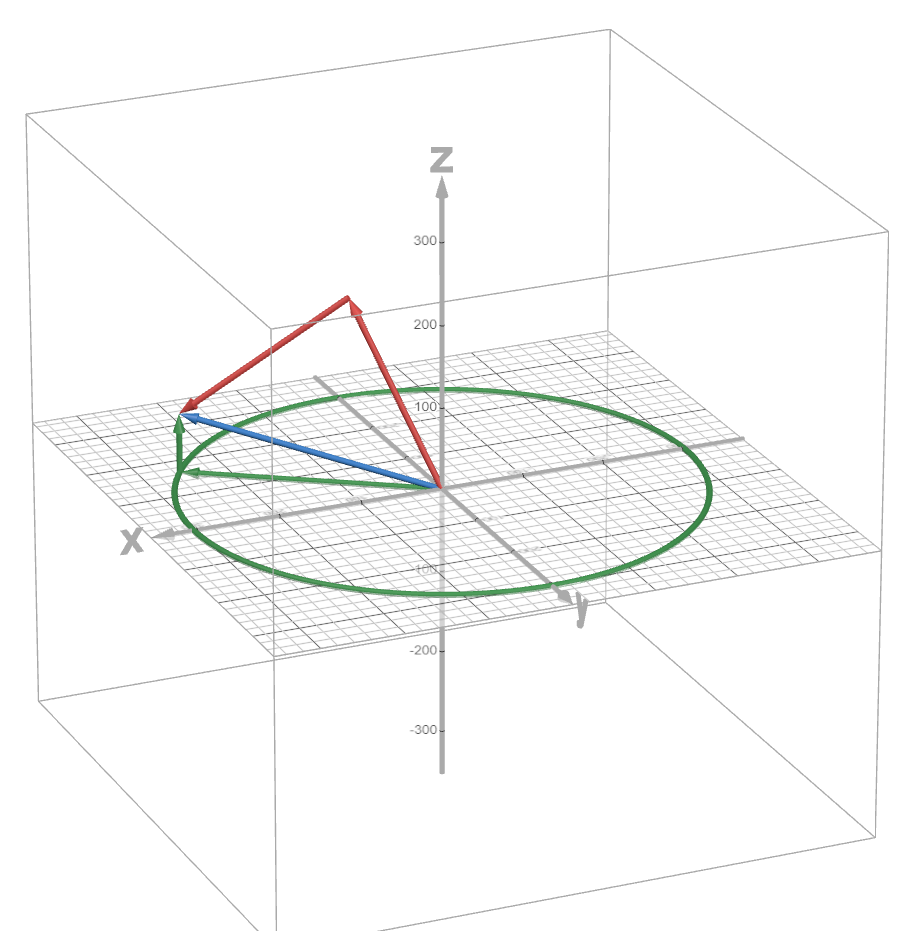
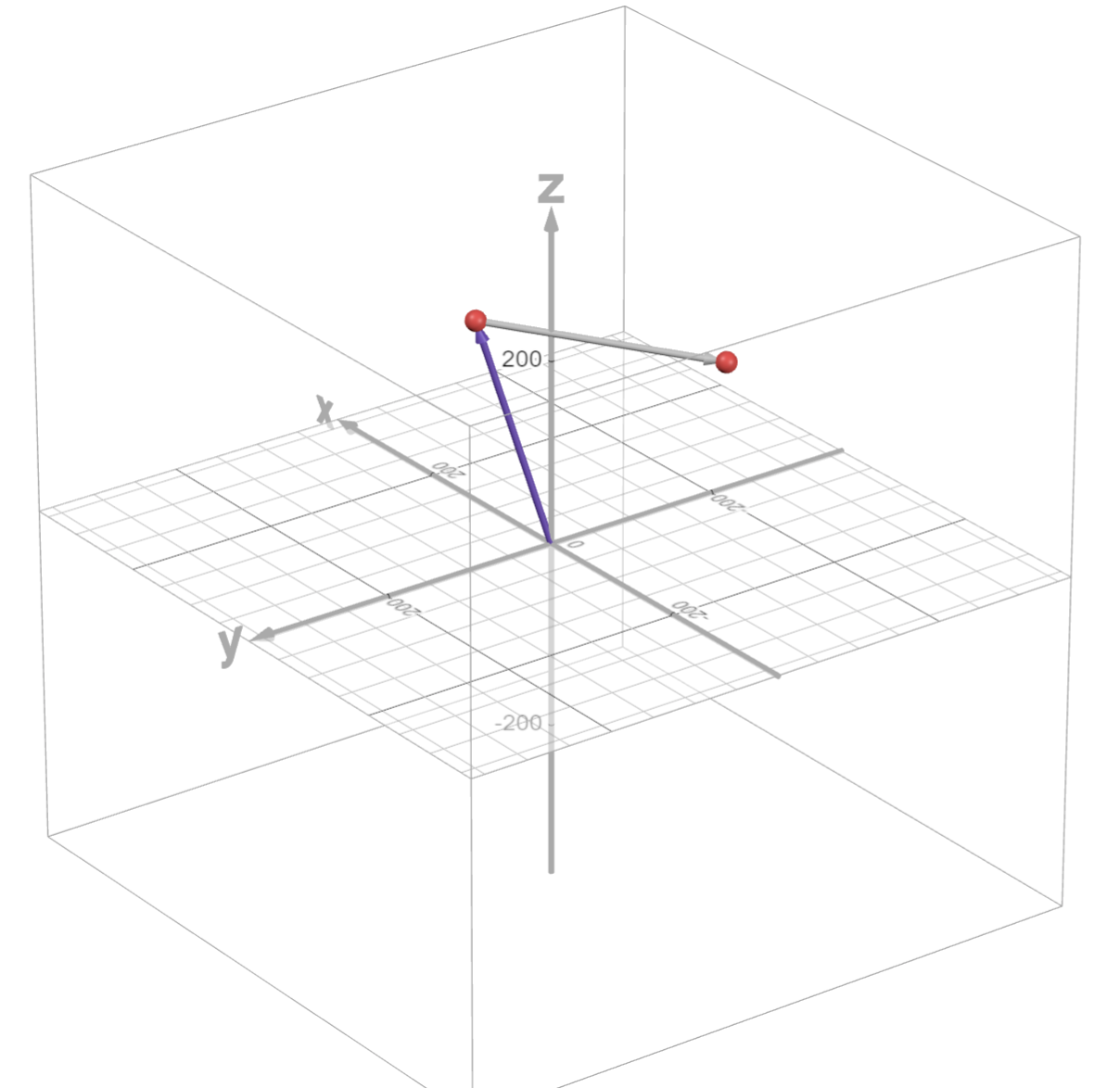
Fix the Desmos graph image and links for Lessons 3 and 4
Lesson 3: replace the picture with the Lesson 3 trigonometry graph.
Lesson 4: link the Lesson 4 DH graph instead of the Lesson 3 one.

Claude-Session: https://claude.ai/code/session_01MLFYEPar84CHHqK75rMbXG

diff --git a/Curriculum/Lesson 4/README.md b/Curriculum/Lesson 4/README.md
@@ -27,7 +27,7 @@ The `dh_helper.py` code used on the "Check It with Code" slide is in the lesson 
 
 ## Check your DH result
 
-Done correctly, the DH method gives the same end-effector position as the trigonometric method from Lesson 3. Use the Lesson 3 Desmos model to check your answers:
-[Open the Desmos graph](https://www.desmos.com/3d/9bnvqc263x)
+Done correctly, the DH method gives the same end-effector position as the trigonometric method from Lesson 3. Use the Lesson 4 Desmos graph (DH convention) to check your answers. Set u = θB, v = θS and w = θE. The graph measures in hundreds of mm, so multiply d by 100: the worked example (45°, 45°, −45°) gives d = (3.0178, 3.0178, 1.7678), which is (301.78, 301.78, 176.78) mm.
+[Open the Desmos graph](https://www.desmos.com/3d/qq1w1zrs78)
 
 **Previous:** [Lesson 3](../Lesson%203/) · **Next:** [Lesson 5: Code Implementation of FK](../Lesson%205/)

diff --git a/Curriculum/Lesson 3/README.md b/Curriculum/Lesson 3/README.md
@@ -27,6 +27,6 @@ By the end of this lesson, students will be able to:
 Explore the arm's forward kinematics using the trigonometric approach in Desmos:
 [Open the Desmos graph](https://www.desmos.com/3d/9bnvqc263x)
 
-[![The arm's forward kinematics in the Desmos 3D graph, with the base rotation circle](desmos-fk-model.png)](https://www.desmos.com/3d/9bnvqc263x)
+[![The Lesson 3 Desmos 3D graph of the arm: the upper arm in purple and the forearm in gray](desmos-fk-model.png)](https://www.desmos.com/3d/9bnvqc263x)
 
 **Previous:** [Lesson 2](../Lesson%202/) · **Next:** [Lesson 4: Denavit-Hartenberg Approach to FK](../Lesson%204/)
